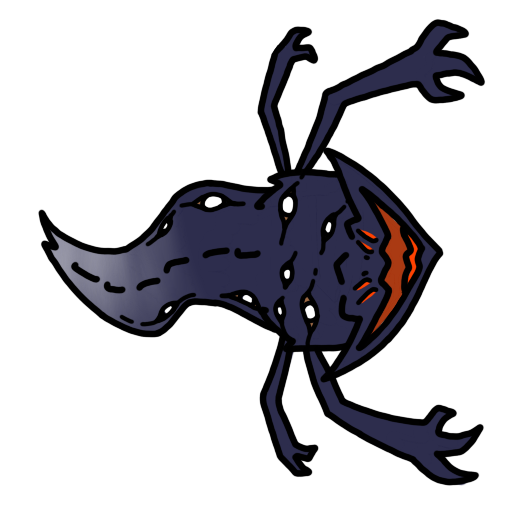
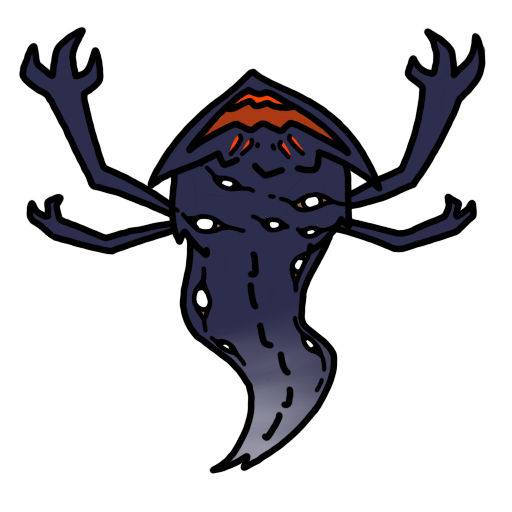
demon draait :D

diff --git a/src/js/enemies/demonBoss.js b/src/js/enemies/demonBoss.js
@@ -11,7 +11,7 @@ export class demon extends ghost {
       height: Resources.demon.height / 1.6,
     });
     this.target = target;
-    this.speed = 60;
+    this.speed = 0;
     this.minDistance = 1;
     this.maxDistance = 1000;
     this.rotation = 0;
@@ -68,22 +68,10 @@ export class demon extends ghost {
     this.playSoundAtRandomInterval();
   }
 
-  moveTowardsTarget() {
-    const direction = this.target.pos.sub(this.pos);
-    const distance = direction.distance();
 
-    if (distance > this.minDistance && distance < this.maxDistance) {
-      const desiredVel = direction.normalize().scale(this.speed);
-      this.vel = desiredVel.clampMagnitude(this.speed);
-
-      // Calculate rotation based on movement direction
-      this.rotation = Math.atan2(this.vel.y, this.vel.x);
-    } else {
-      this.vel = Vector.Zero;
-    }
-  }
 
   update(engine, delta) {
-    this.moveTowardsTarget();
+    const direction = this.target.pos.sub(this.pos);
+    this.rotation = direction.toAngle() + Math.PI / 2;
   }
 }

diff --git a/src/js/game.js b/src/js/game.js
@@ -53,7 +53,7 @@ export class Game extends Engine {
         this.addScene('officeRoom2', this.officeroom2)
 
 
-        this.goToScene('titleMenu')
+        this.goToScene('bossRoom')
 
         console.log("Enjoy!")
     }
